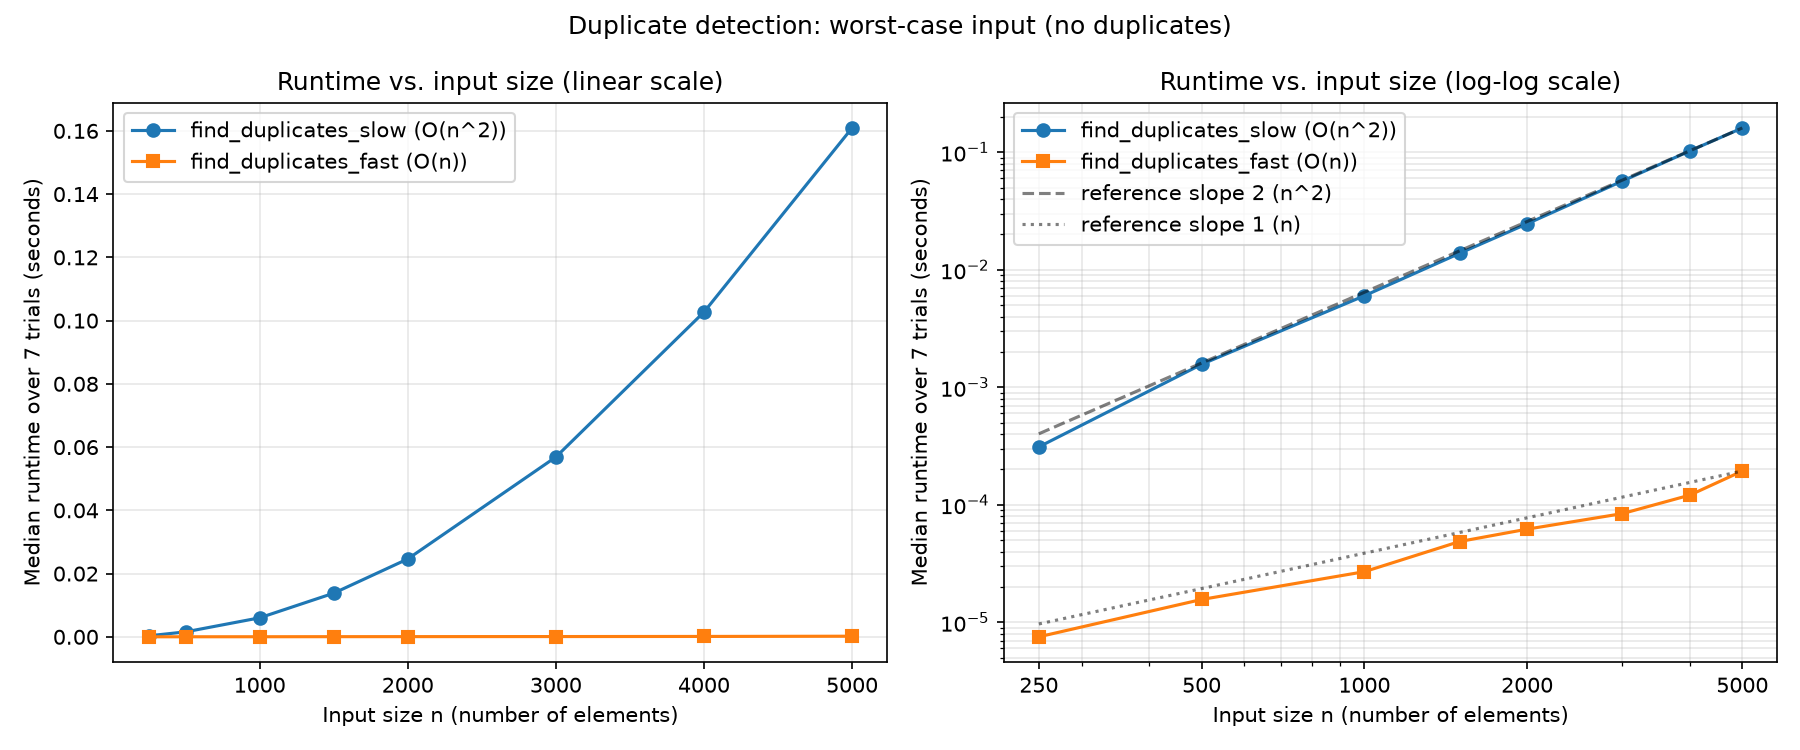
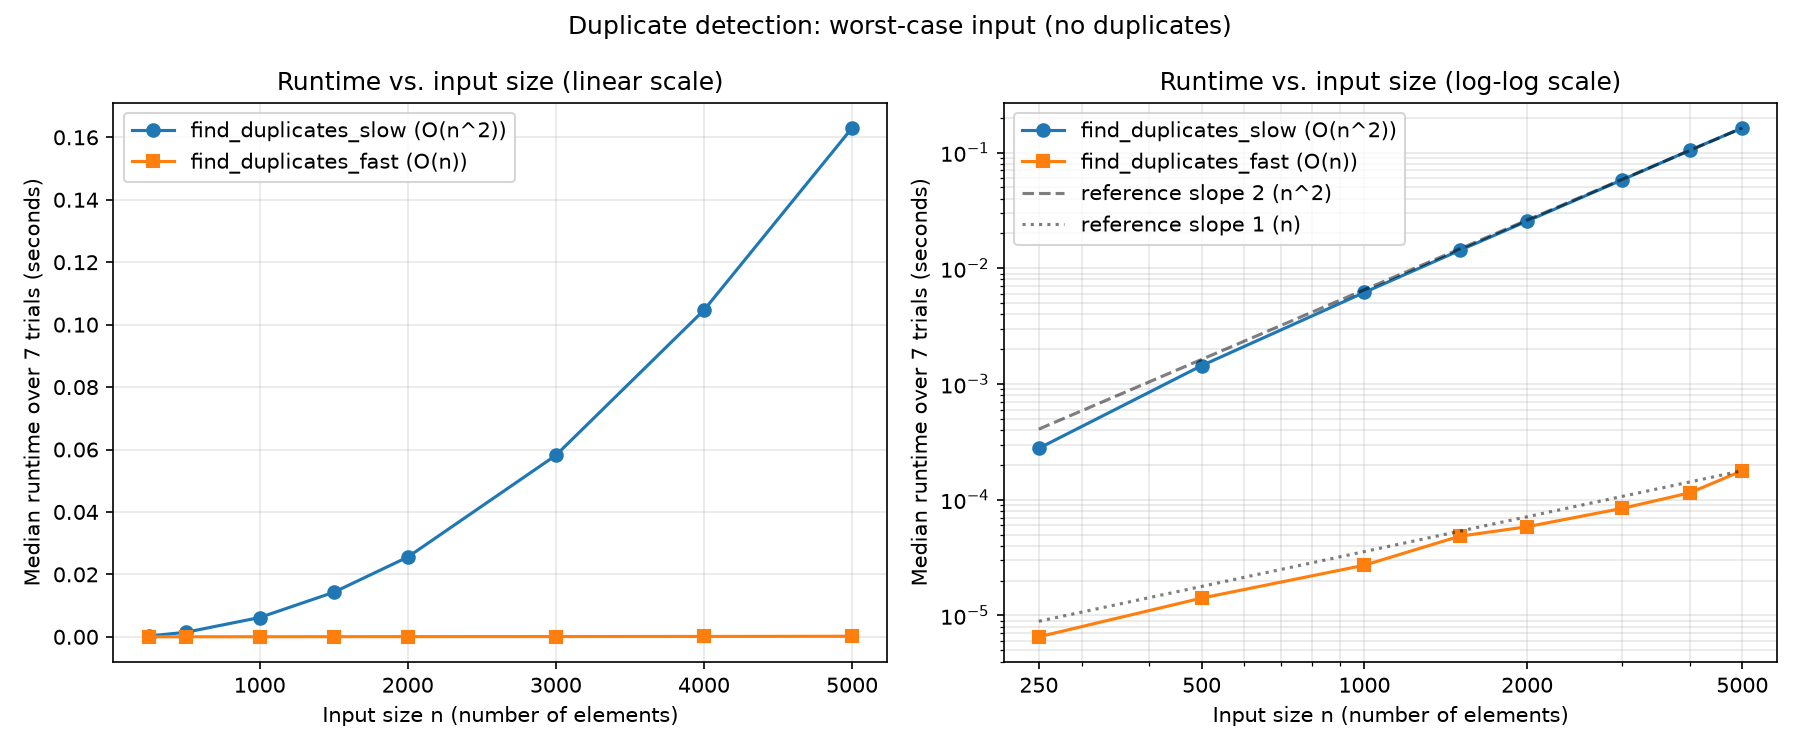
Add results plot and scaling analysis to README

diff --git a/README.md b/README.md
@@ -32,5 +32,11 @@ The file also contains a `flawed_benchmark()` function. The developer who wrote 
 
 2. Run the empirical comparion and plot the results using a plotting library of your choice (e.g., `matplotlib`, `seaborn`, etc.). Include the plot in your submission called `results.png`. Be sure to label your axes and include a legend.
 
+   ![Benchmark results](results.png)
+
+   The results match the expected growth rates. From n = 500 on, every time n doubles, the slow algorithm takes about 4 times longer (for example, 0.0062 s at n = 1000 and 0.0256 s at n = 2000), while the fast algorithm only takes about 2 times longer (0.000027 s at n = 1000 and 0.000058 s at n = 2000). This is what we expect from O(n^2) and O(n). The jump from 250 to 500 is about 5 times for the slow algorithm, which I think is because the runs at n = 250 only take about 0.0003 s and are easily affected by noise.
+
+   The log-log graph makes this easier to see. On a log-log plot, a function like n^k shows up as a straight line with slope k. When I fit a line to the measured times, the slope was about 2.1 for the slow algorithm and about 1.0 for the fast algorithm, and both lines follow the reference lines in the plot. On the linear graph, the fast algorithm looks almost flat because it is so much faster. At n = 5000, the slow algorithm took 0.163 s and the fast algorithm took 0.00018 s, which is about 900 times faster, and this gap keeps growing as n gets larger.
+
 
 
